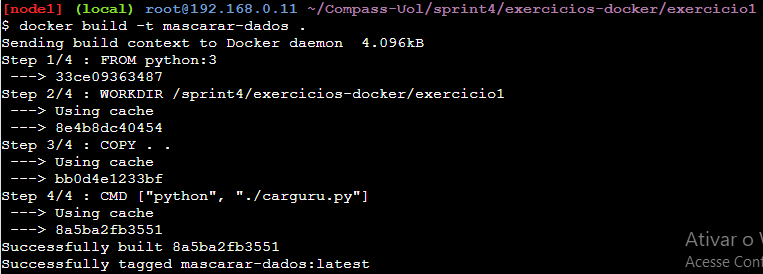
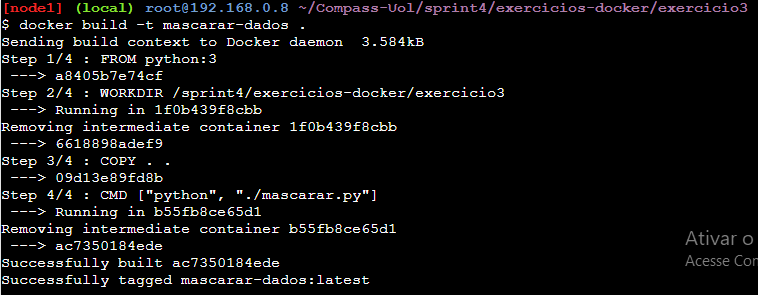
cria readme pra sprint 4

Changed region(s): [[0.0, 0.0, 1.0, 0.9927], [0.8799, 0.7883, 1.0, 0.9051], [0.8799, 0.9343, 1.0, 0.9927]]

diff --git a/sprint4/exercicios-docker/exercicio3/mascarar.py b/sprint4/exercicios-docker/exercicio3/mascarar.py
@@ -20,6 +20,7 @@ def repete(func):
 
         if str.lower() != "sair":
             print(func(str))
+            print()
         else: 
             break
 

diff --git a/sprint4/README.md b/sprint4/README.md
@@ -1,0 +1,281 @@
+<h1 align="center"> Sprint 3</h1>
+
+<p align="center">
+ <a href="#sobre">Sobre</a> •
+ <a href="#exercicios-p">Exercícios Python Funcional</a> •
+ <a href="#exercicios-d">Exercícios Docker e Python</a>
+</p>
+
+<br> 
+
+<a id="sobre"></a>
+## 📎 Sobre
+
+### Conteúdos
+
+- Python funcional
+- Docker
+- Estatística descritiva
+
+### Mentor
+
+[Rodrigo Guimarães](https://github.com/rodrigo-sguimaraes)
+
+
+<br>
+
+<a id="exercicios-p"></a>
+## 🐍 Exercícios Python Funcional
+
+<br>
+
+### Exercício 1
+>Você está recebendo um [arquivo](/sprint4/exercicios-programacao-funcional/number.txt) contendo 10.000 números inteiros, um em cada linha. Utilizando lambdas e high order functions, apresente os 5 maiores valores pares e a soma destes.
+Você deverá aplicar as seguintes funções no exercício:
+>- map
+>- filter
+>- sorted
+>- sum
+
+> Seu código deverá exibir na saída (simplesmente utilizando 2 comandos `print()`):
+>- a lista dos 5 maiores números pares em ordem decrescente;
+>- a soma destes valores.
+
+``` Python
+# extrai os dados do arquivo e joga numa lista de int
+def extrai(caminho):
+    with open(caminho) as file:
+        num = file.read().split("\n")
+        num = list(map(lambda x: int(x), num))
+        file.close()
+
+    def filtra():
+        par = lambda x: x % 2 == 0
+
+        # filtra(filter) somente os pares da lista, ordena(sorted) esse resultado em ordem decrescente(reverse=True) e pega somente os 5 primeiros valores([0:5])
+        return list(sorted(filter(par, num), reverse=True))[0:5]
+    
+    return filtra()
+
+
+lista = extrai("sprint4/exercicios-programacao-funcional/number.txt")
+
+print(lista)
+print(sum(lista))
+```
+
+### Exercício 2
+>Utilizando high order functions, implemente o corpo da função conta_vogais. O parâmetro de entrada será uma string e o resultado deverá ser a contagem de vogais presentes em seu conteúdo.
+É obrigatório aplicar as seguintes funções:
+>- len
+>- filter
+>- lambda
+
+> Desconsidere os caracteres acentuados. Eles não serão utilizados nos testes do seu código.
+
+``` Python
+def conta_vogais(texto:str)-> int:
+    vogais = lambda x: x in ['a', 'e', 'i', 'o', 'u']
+    # filtra as vogais da string e retorna o tamanho da lista gerada pela filtragem 
+    return len(list(filter(vogais, texto.lower())))
+```
+
+### Exercício 3
+>A função calcula_saldo recebe uma lista de tuplas, correspondendo a um conjunto de lançamentos bancários. Cada lançamento é composto pelo seu valor (sempre positivo) e pelo seu tipo (C - crédito ou D - débito). 
+Abaixo apresentando uma possível entrada para a função.
+>``` Python
+>lancamentos = [
+>    (200,'D'),
+>    (300,'C'),
+>    (100,'C')
+>] 
+>```
+
+> A partir dos lançamentos, a função deve calcular o valor final, somando créditos e subtraindo débitos. Na lista anterior, por exemplo, teríamos como resultado final 200.
+
+>Além de utilizar lambdas, você deverá aplicar, obrigatoriamente, as seguintes funções na resolução:
+>- reduce (módulo functools)
+>- map
+
+``` Python
+from functools import reduce 
+
+def calcula_saldo(lancamentos) -> float:
+    # usa map para criar uma lista com os valores da tupla, positivos se era 'C' e negativo se 'D'
+    lista = list(map(lambda x: -x[0] if x[1] == 'D' else x[0], lancamentos))
+    # retorna a soma de todos os valores da lista gerada
+    return reduce(lambda x, y: x+y, lista)
+```
+
+### Exercício 4  
+>A função calcular_valor_maximo deve receber dois parâmetros, chamados de operadores e operandos. Em operadores, espera-se uma lista de caracteres que representam as operações matemáticas suportadas (+, -, /, *, %), as quais devem ser aplicadas à lista de operadores nas respectivas posições. Após aplicar cada operação ao respectivo par de operandos, a função deverá retornar o maior valor dentre eles.
+Veja o exemplo:
+>- Entrada:
+>``` Python
+> operadores = ['+','-','*','/','+']
+> operandos  = [(3,6), (-7,4.9), (8,-8), (10,2), (8,4)]
+>```
+>- Aplicar as operações aos pares de operandos
+>``` Python
+> [ 3+6 , -7-4.9, 8*-8 , 10/2 , 8+4 ] 
+>```
+>- Obter o maior dos valores
+>``` Python
+> 12 
+>```
+> <br>
+
+>Na resolução da atividade você deverá aplicar as seguintes funções:
+>- max
+>- zip
+>- map
+
+``` Python
+def calcular_valor_maximo(operadores,operandos):
+    # função a ser executada no map
+    # eval calcula a operação passada em string
+    operacao = lambda x: eval(f"{x[1][0]} {x[0]} {x[1][1]}")
+
+    # junta os operadores com operandos através do 'zip', e usa essa lista para fazer os calculos com map
+    return max(list(map(operacao, list(zip(operadores, operandos)))))
+```
+
+### Exercício 5 
+>Um determinado sistema escolar exporta a grade de notas dos estudantes em formato CSV. Cada linha do [arquivo](/sprint4/exercicios-programacao-funcional/estudantes.csv) corresponde ao nome do estudante, acompanhado de 5 notas de avaliação, no intervalo [0-10]. É o arquivo estudantes.csv de seu exercício.
+
+>Precisamos processar seu conteúdo, de modo a gerar como saída um relatório em formato textual contendo as seguintes informações:
+>- Nome do estudante
+>- Três maiores notas, em ordem decrescente
+>- Média das três maiores notas, com duas casas decimais de precisão
+
+>O resultado do processamento deve ser escrito na saída padrão (print), ordenado pelo nome do estudante e obedecendo ao formato descrito a seguir: <br>
+Nome: <nome estudante> Notas: [n1, n2, n3] Média: <média>
+
+>Exemplo: <br>
+Nome: Maria Luiza Correia Notas: [7, 5, 5] Média: 5.67 <br>
+Nome: Maria Mendes Notas: [7, 3, 3] Média: 4.33
+
+>Em seu desenvolvimento você deverá utilizar lambdas e as seguintes funções:
+>- round
+>- map
+>- sorted
+``` Python
+import csv
+
+# extrai os dados do arquivo e joga numa lista(num)
+def extrai(caminho):
+    file = open(caminho, encoding="utf-8")
+    num = csv.reader(file)
+
+    # filtra e retorna os valores pedidos
+    def filtra():
+        # função a ser passada no map, recebe uma lista (nome e 5 notas de uma aluno) e retorna uma lista já filtrada com apenas o nome e as 3 maiores notas
+        def func(x):
+            # transforma as 5 notas em int
+            notas = list(map(lambda x: int(x), x[1:6]))
+            # ordena pela maior nota
+            notas = sorted(notas, reverse=True)
+            # cria lista com o nome do aluno eas 3 maiores notas
+            lista = [x[0], notas[:3]]
+            return lista
+
+        # aplica a função a cada aluno da lista e oredena pelo nome do aluno
+        lista = sorted(list(map(func, num)))
+
+        # retorna o relatório textual para cada aluno
+        # a média é a soma das 3 notas / pelo tamamnho da lista e arredondado pra 2 casas
+        file.close()
+        return list(map(lambda x: print(f"Nome: {x[0]} Notas: {x[1]} Média: {round(sum(x[1])/len(x[1]), 2)}"), lista))
+    return filtra()
+
+extrai("sprint4/exercicios-programacao-funcional/estudantes.csv")
+```
+
+<br>
+
+<a id="exercicios-d"></a>
+##  🐋 Exercícios Docker e Python
+
+<br>
+
+### Extração 1
+>Construa uma imagem a partir de um arquivo de instruções (Dockerfile) que execute o código [carguru.py](/sprint4/exercicios-docker/exercicio1/carguru.py). Após, execute um container a partir da imagem criada.
+
+>Registre aqui o conteúdo de seu arquivo Dockerfile e o comando utilizado para execução do container.
+
+``` Yaml
+FROM python:3 
+
+WORKDIR /sprint4/exercicios-docker/exercicio1 
+
+COPY . .
+
+CMD ["python", "./carguru.py"]
+```
+Comando para criar a imagem:
+[E1 build](/sprint4/imagens-sprint4/build_exercicio1.PNG)
+
+Comando para criar e executar o container:
+[E1 run](/sprint4/imagens-sprint4/run_exercicio1.PNG)
+
+### Exercício 2
+>É possível reutilizar containers? Em caso positivo, apresente o comando necessário para reiniciar um dos containers parados em seu ambiente Docker? Não sendo possível reutilizar, justifique sua resposta.
+
+Sim, é possível, o comando usado apra isso é o "docker start [container]", podendo usar flags também, consultar o "start --help"
+
+Utilizando o container do exercício anterior como exemplo:
+[E2 start](/sprint4/imagens-sprint4/start_exercicio2.PNG)
+
+### Exercício 2
+>Agora vamos exercitar a criação de um container que permita receber inputs durante sua execução. Seguem as instruções.
+
+>Criar novo script Python que implementa o algoritmo a seguir:
+>1. Receber uma string via input
+>2. Gerar o hash  da string por meio do algoritmo SHA-1
+>3. Imprimir o hash em tela, utilizando o método hexdigest
+>4. Retornar ao passo 1
+
+>Criar uma imagem Docker chamada mascarar-dados que execute o script Python criado anteriormente
+
+>Iniciar um container a partir da imagem, enviando algumas palavras para mascaramento
+
+>Registrar o conteúdo do script Python, arquivo Dockerfile e comando de inicialização do container neste espaço.
+
+Script de python (mascarar.py):
+``` Python
+import hashlib
+
+# usa hash sha1 para mascarar a palavra passado como parâmetro
+def mascara(palavra):
+    return hashlib.sha1(palavra.encode("utf-8")).hexdigest()
+
+# exibe o resultado da função passada como parâmetro até que seja digitado "sair"
+def repete(func):
+    while True:
+        str = input("Informe a expressão a ser mascarada ou 'sair': ")
+
+        if str.lower() != "sair":
+            print(func(str))
+            print()
+        else: 
+            break
+
+repete(mascara)
+```
+
+Dockerfile:
+``` YAML
+FROM python:3 
+
+WORKDIR /sprint4/exercicios-docker/exercicio3
+
+COPY . .
+
+CMD ["python", "./mascarar.py"]
+```
+
+Comando para criar a imagem:
+[E3 build](/sprint4/imagens-sprint4/build_exercicio3.PNG)
+
+Comando para criar e rodar o container:
+[E3 run](/sprint4/imagens-sprint4/run_exercicio3.PNG)

diff --git a/README.md b/README.md
@@ -43,16 +43,15 @@
 - [x] Python
 - [x] Exercício 3.0
 
-### Sprint 4 ![a](https://img.shields.io/badge/in_progress-yellow)
-- [ ] Programação funcional
-- [ ] Python
-- [ ] Docker
-- [ ] Estatística descritiva
-- [ ] Exercício 4.0
+### [Sprint 4](/sprint4) ![a](https://img.shields.io/badge/done-green)
+- [x] Programação funcional
+- [x] Python
+- [x] Docker
+- [x] Estatística descritiva
+- [x] Exercício 4.0
 
-### Sprint 5 ![a](https://img.shields.io/badge/to_do-red)
+### Sprint 5 ![a](https://img.shields.io/badge/in_progress-yellow)
 - [ ] Computação em núvem (AWS)
-- [ ] Exercício 5.0
 
 ### Sprint 6 ![a](https://img.shields.io/badge/to_do-red)
 - [ ] Computação em núvem (AWS)

diff --git a/sprint3/README.md b/sprint3/README.md
@@ -17,8 +17,7 @@
 
 ### Mentor
 
-[Mathues Toledo](https://github.com/toledkrw)
-
+[Matheus Toledo](https://github.com/toledkrw)
 
 <br>
 
